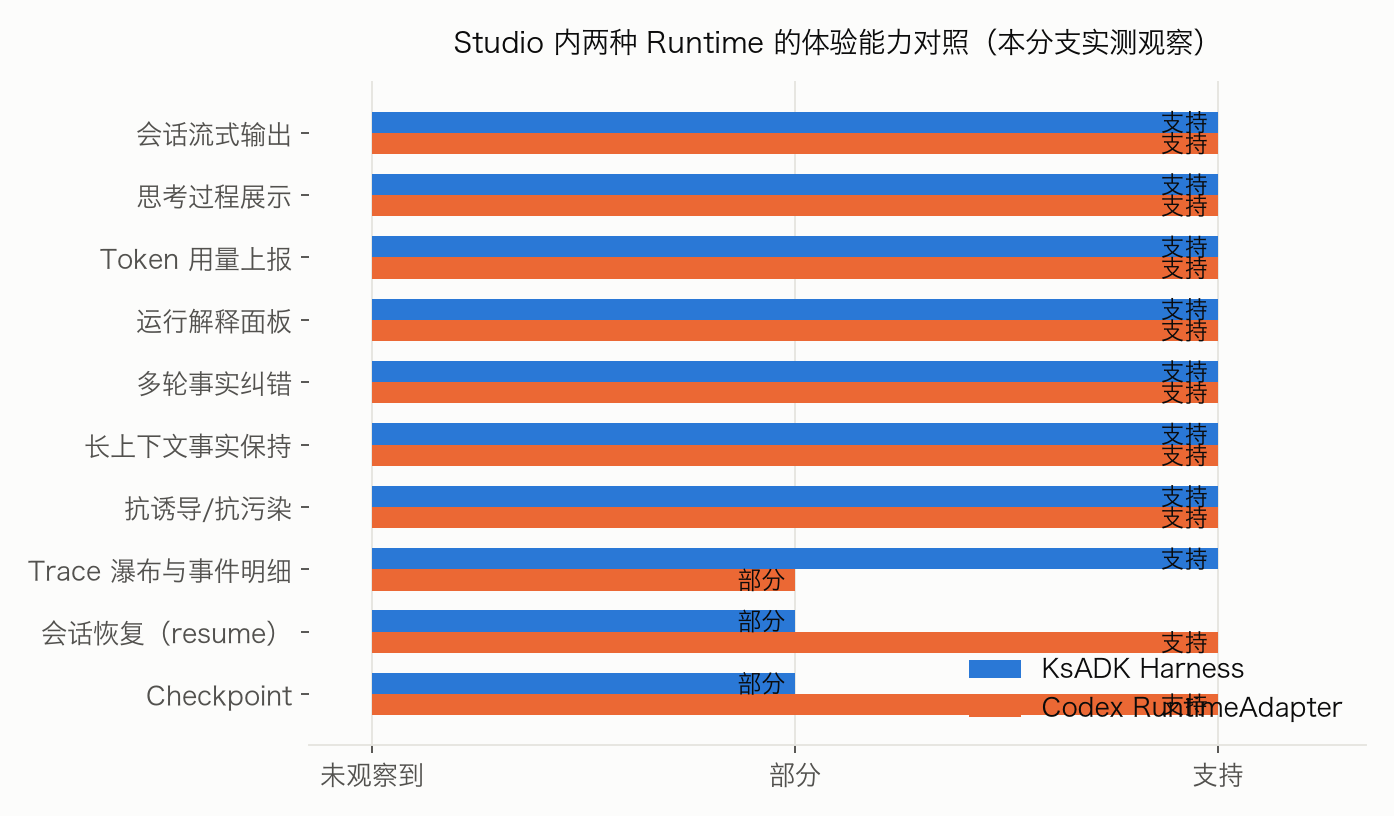
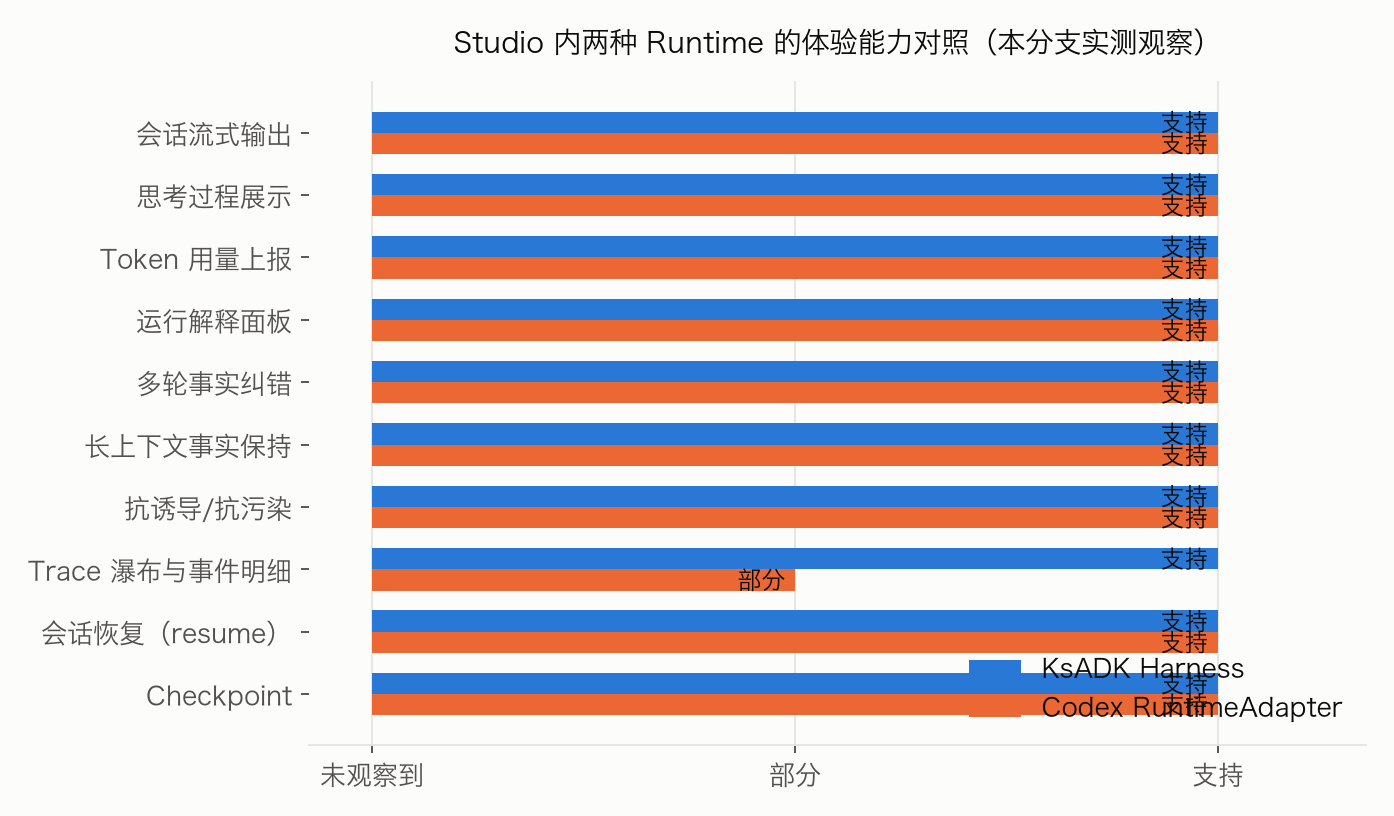
docs(harness): 能力矩阵更新为会话恢复/Checkpoint 三层齐备
跨进程持久恢复经 durable-harness-checkpoint-recovery 收口后，三层现状表
全部转为支持；能力矩阵图 Harness 的 resume/Checkpoint 从「部分」改为
「支持」，与 Codex 持平。

Changed region(s): [[0.5244, 0.7353, 0.8945, 0.7966], [0.5244, 0.8272, 0.8945, 0.8578]]

diff --git a/docs/2026-09-02-harness-studio-e2e-report.md b/docs/2026-09-02-harness-studio-e2e-report.md
@@ -26,7 +26,7 @@
 | 配平评测延迟合计 | 11.7s | 29.7s | **Harness 约 2.5× 快** |
 | Studio 场景延迟 | 1.2s–29.3s | 3.5s–11.0s | 互有胜负，见 §4.2 |
 | 运行可观测性 | 5 Span / 8 事件 / 工具级明细 | 1 Span 黑盒 | **Harness 更细** |
-| 会话恢复 / Checkpoint | 进程内支持，跨进程持久恢复未打通 | thread 级持久支持 | **Codex 现阶段领先** |
+| 会话恢复 / Checkpoint | 进程内 + 跨进程持久（Workspace SQLite / 云端 DSN） | thread 级持久支持 | 持平 |
 | 思考过程展示 | 已思考（用时 x 秒） | 已思考（用时 x 秒） | 持平 |
 
 ## 3. Harness 能力实测
@@ -130,21 +130,21 @@ Harness 运行检查器提供运行级与工具级两级观测：
 - **Harness 优势**：Trace 瀑布与工具级事件明细（Codex 收敛为单 Span 黑盒）、输入 Token 经济性、协议级延迟。
 - **Codex 优势**：thread 级持久会话恢复与 Checkpoint。
 
-**Harness 会话恢复/Checkpoint 的三层现状**（代码核实）：
+**Harness 会话恢复/Checkpoint 的三层现状**（代码核实；持久层已于 OpenSpec change `durable-harness-checkpoint-recovery` 收口）：
 
 | 层 | 状态 | 依据 |
 |---|---|---|
 | 多轮对话历史 | ✅ 支持 | 会话历史由平台 Session/EventStore 持久化，每次请求重放给 Harness |
-| 进程内 Checkpoint / 审批恢复 | ✅ 支持 | Managed LangGraph 引擎带内存 Checkpointer（快照粒度），`resume()`/`checkpoint()` 已实现 |
-| 重启后的跨进程恢复 | ⏳ 未打通 | Provider 装配的仍是内存 Checkpointer；Studio 目录对该 Runtime 的声明也未反映真实能力 |
+| 进程内 Checkpoint / 审批恢复 | ✅ 支持 | Managed LangGraph 引擎带 Checkpointer（快照粒度），`resume()`/`checkpoint()` 已实现 |
+| 重启后的跨进程恢复 | ✅ 支持 | Provider 按 Workspace 装配持久 Checkpoint（SQLite）与 RunHandle 索引，重启后经 `engine.attach()` 重连恢复；云端经 Checkpoint DSN 使用 PostgreSQL |
 
-内核侧持久化基建（durable Checkpointer 探测、`engine.attach()` 跨进程重建、Postgres/SQLite Checkpointer、跨进程恢复测试）已具备，收口方向是为 Provider 路径补持久 Checkpointer 装配与 Adapter 重连，并让 Studio 能力目录读取 Adapter 真实声明。
+内核侧持久化基建（durable Checkpointer 探测、`engine.attach()` 跨进程重建、Postgres/SQLite Checkpointer、跨进程恢复测试）由 runtime_server 与 Provider 路径共用同一装配范式，Studio 能力目录读取 Adapter 真实声明。
 
 ![Codex 会话回答（同题对照）](assets/harness-studio-e2e/docs-codex-final.png)
 
 ## 5. 已知边界
 
-- 会话恢复/Checkpoint 的缺口仅在「重启后跨进程持久恢复」一层（见 §4.3 三层现状）；进程内审批挂起/恢复已由 Managed 引擎的内存 Checkpointer 覆盖，Studio 进程重启后的长会话续跑需待持久 Checkpointer 收口。
+- 会话恢复/Checkpoint 已三层齐备：跨进程持久恢复经 Workspace SQLite / 云端 DSN Checkpointer 收口（`durable-harness-checkpoint-recovery`），进程内审批挂起/恢复由 Managed 引擎 Checkpointer 覆盖。
 - 抗污染召回场景（§3.5 S3）的措辞会使两个 Runtime 都拒绝回答，无法用于对比记忆能力；对比结论以 §3.4 配平用例为准。
 - Studio 场景延迟含前端渲染与网关波动，单次采样，趋势性参考。
 
